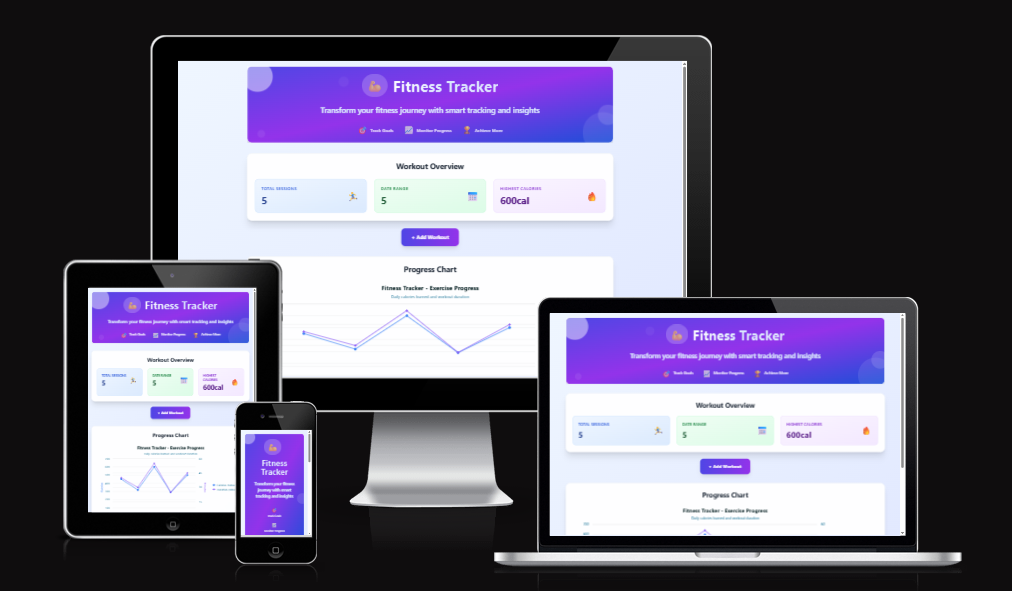
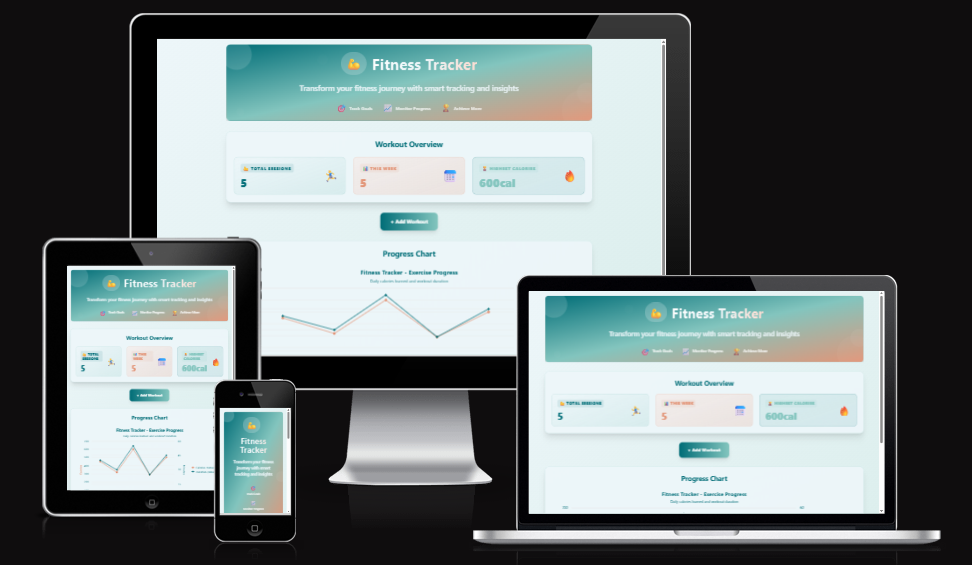
miss read the readme added steps taken to the chart and plotted it also added timespent  in statsOverview

Changed region(s): [[0.0309, 0.0, 0.9877, 0.9628]]

diff --git a/my-app/src/chartConfig.ts b/my-app/src/chartConfig.ts
@@ -9,7 +9,7 @@ export const chartColors = {
 export const getChartOptions = (
   dates: string[], 
   calories: number[], 
-  durationMinutes: number[], 
+  stepsData: number[], 
   isMobile: boolean
 ) => ({
   title: {
@@ -19,7 +19,7 @@ export const getChartOptions = (
     }
   },
   subtitle: {
-    text: 'Daily calories burned and workout duration',
+    text: 'Daily calories burned and steps taken',
     style: {
       color: chartColors.secondary
     }
@@ -38,11 +38,11 @@ export const getChartOptions = (
       }
     }
   },
-  yAxis: [{
+  yAxis: {
     title: {
-      text: 'Calories',
+      text: 'Calories/Steps',
       style: {
-        color: chartColors.accent1
+        color: chartColors.secondary
       }
     },
     labels: {
@@ -50,24 +50,8 @@ export const getChartOptions = (
         color: chartColors.secondary
       }
     },
-    tickInterval: 50,
     min: 0
-  }, {
-    title: {
-      text: 'Minutes',
-      style: {
-        color: chartColors.accent2
-      }
-    },
-    labels: {
-      style: {
-        color: chartColors.secondary
-      }
-    },
-    tickInterval: 10,
-    min: 0,
-    opposite: true
-  }],
+  },
   legend: {
     layout: isMobile ? 'horizontal' : 'vertical',
     align: isMobile ? 'center' : 'right',
@@ -79,12 +63,10 @@ export const getChartOptions = (
   series: [{
     name: 'Calories Burned',
     data: calories,
-    yAxis: 0,
     color: chartColors.accent1
   }, {
-    name: 'Duration (Minutes)',
-    data: durationMinutes,
-    yAxis: 1,
+    name: 'Steps Taken',
+    data: stepsData,
     color: chartColors.accent2
   }],
   credits: {

diff --git a/my-app/src/components/statsOverview.tsx b/my-app/src/components/statsOverview.tsx
@@ -1,4 +1,4 @@
-import { getBestDay, useStats, numberOfObjects } from '../hooks/handleStats'
+import { getBestDay, useStats, numberOfObjects, getTotalHours } from '../hooks/handleStats'
 import { exerciseData } from '../../constants'
 
 const StatsOverview = () => {
@@ -22,8 +22,8 @@ const StatsOverview = () => {
           <div className="stat-card stat-card-green hover:shadow-lg transition-shadow duration-200 cursor-pointer">
             <div className="flex items-center justify-between">
               <div className="flex-1">
-                <p className="text-sm text-atomic-tangerine font-black uppercase tracking-wider mb-3 bg-atomic-tangerine/10 px-2 py-1 rounded-md inline-block">📊 This Week</p>
-                <p className="text-4xl font-extrabold text-atomic-tangerine leading-none">{stats.thisWeekSessions}</p>
+                <p className="text-sm text-atomic-tangerine font-black uppercase tracking-wider mb-3 bg-atomic-tangerine/10 px-2 py-1 rounded-md inline-block">📊 Time Spent</p>
+                <p className="text-4xl font-extrabold text-atomic-tangerine leading-none">{getTotalHours()}h</p>
               </div>
               <div className="text-4xl ml-4 transform hover:scale-110 transition-transform duration-200">📅</div>
             </div>

diff --git a/my-app/src/hooks/formData.ts b/my-app/src/hooks/formData.ts
@@ -1,10 +1,11 @@
+// import { Console } from 'console';
 import { useState } from 'react'
 
 // Define the workout type
 type Workout = {
 date: string;
 calories: number;
-durationMinutes: number;
+stepsTaken: number;
 };
 
 // Custom hook for managing workouts
@@ -16,11 +17,15 @@ export const useWorkouts = () => {
     e.preventDefault();
     
     const formData = new FormData(e.target as HTMLFormElement);
+    const rawSteps = parseInt(formData.get('duration') as string)
+    // const steps = parseInt(formData.get('duration') as string)
+    // console.log(steps);
     const newWorkout: Workout = {
       date: formData.get('date') as string,
       calories: parseInt(formData.get('calories') as string),
-      durationMinutes: parseInt(formData.get('duration') as string),
+      stepsTaken: calculateSteps(rawSteps),
     };
+
 
     // Add workout to state
     setWorkouts(prev => [...prev, newWorkout]); // ✅ Use callback for safer updates
@@ -35,6 +40,10 @@ export const useWorkouts = () => {
     workouts,
     showAddForm,
     setShowAddForm,
-    handleAddWorkout
+    handleAddWorkout,
   };
 };
+
+const calculateSteps = function(x:number) {
+  return (x * 60)
+}

diff --git a/my-app/src/hooks/formatChart.ts b/my-app/src/hooks/formatChart.ts
@@ -11,16 +11,21 @@ export const useFormatData = () => {
     };
 
     // Extract data for chart
-    const dates = exerciseData.map(item => formatDate(item.date));
+    const dates = exerciseData.map(item => item.date);
     const calories = exerciseData.map(item => item.calories);
-    const durationMinutes = exerciseData.map(item => item.durationMinutes);
-
+    const stepsData = exerciseData.map(item => calculateSteps(item.durationMinutes));
+    
     return {
       dates,
       calories,
-      durationMinutes
+      stepsData,
     };
   }, []); // No dependencies needed since exerciseData is a static import
 
   return formattedData;
+}
+
+
+const calculateSteps = function(x:number) {
+  return (x * 60)
 }

diff --git a/my-app/src/components/chart.tsx b/my-app/src/components/chart.tsx
@@ -9,10 +9,10 @@ const Chart = () => {
   const isMobile = useMobile();
 
   // Get the formatted data 
-  const { dates, calories, durationMinutes } = useFormatData();
-  
+  const { dates, calories, stepsData } = useFormatData();
+  console.log(stepsData)
   // Get chart options from external config
-  const options = getChartOptions(dates, calories, durationMinutes, isMobile);
+  const options = getChartOptions(dates, calories, stepsData, isMobile);
 
   return (
     <div className="card card-content">

diff --git a/my-app/src/hooks/handleStats.ts b/my-app/src/hooks/handleStats.ts
@@ -51,3 +51,12 @@ export const getBestDay = () =>{
 
   return bestDay;
 }
+
+export const getTotalHours = () => {
+  // Calculate total hours spent training
+  const totalMinutes = exerciseData.reduce((total, workout) => {
+    return total + (workout.durationMinutes || 0);
+  }, 0);
+  
+  return Math.round((totalMinutes / 60) * 10) / 10; // Round to 1 decimal place
+}
